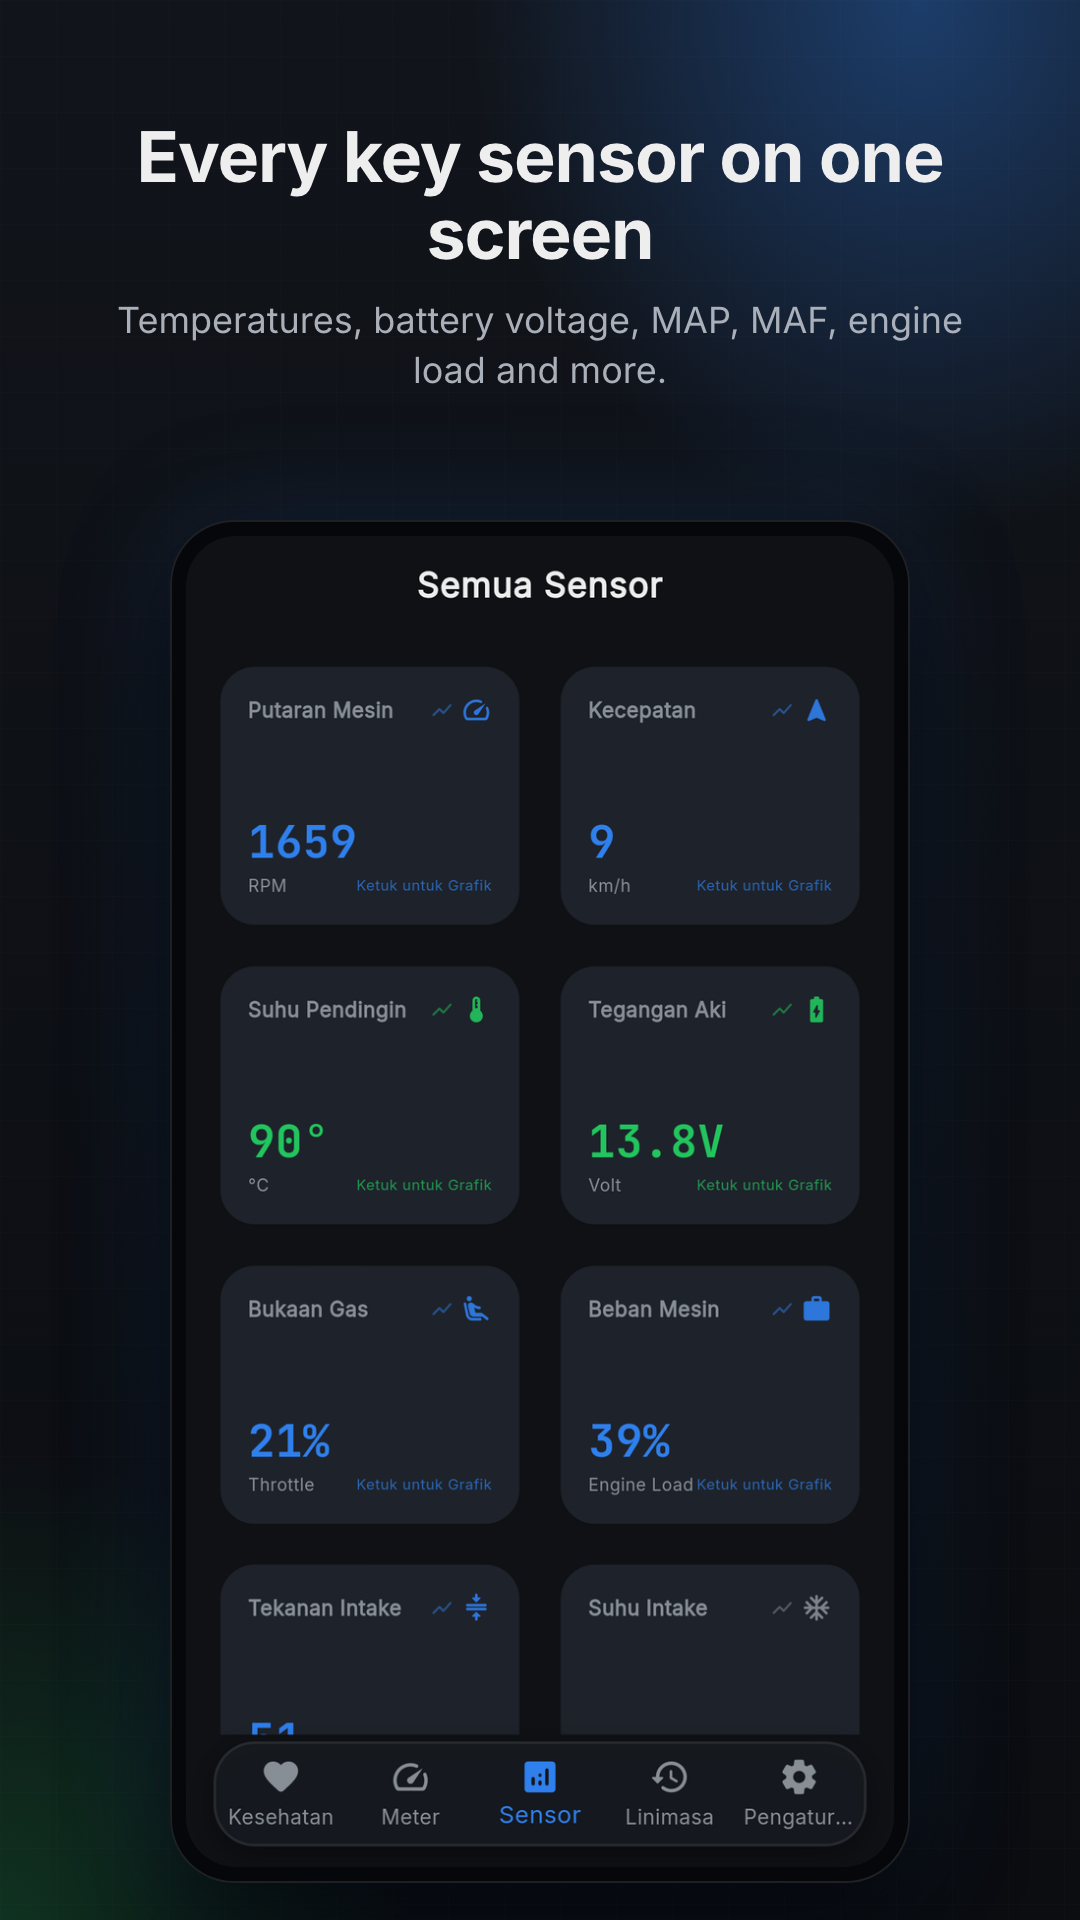
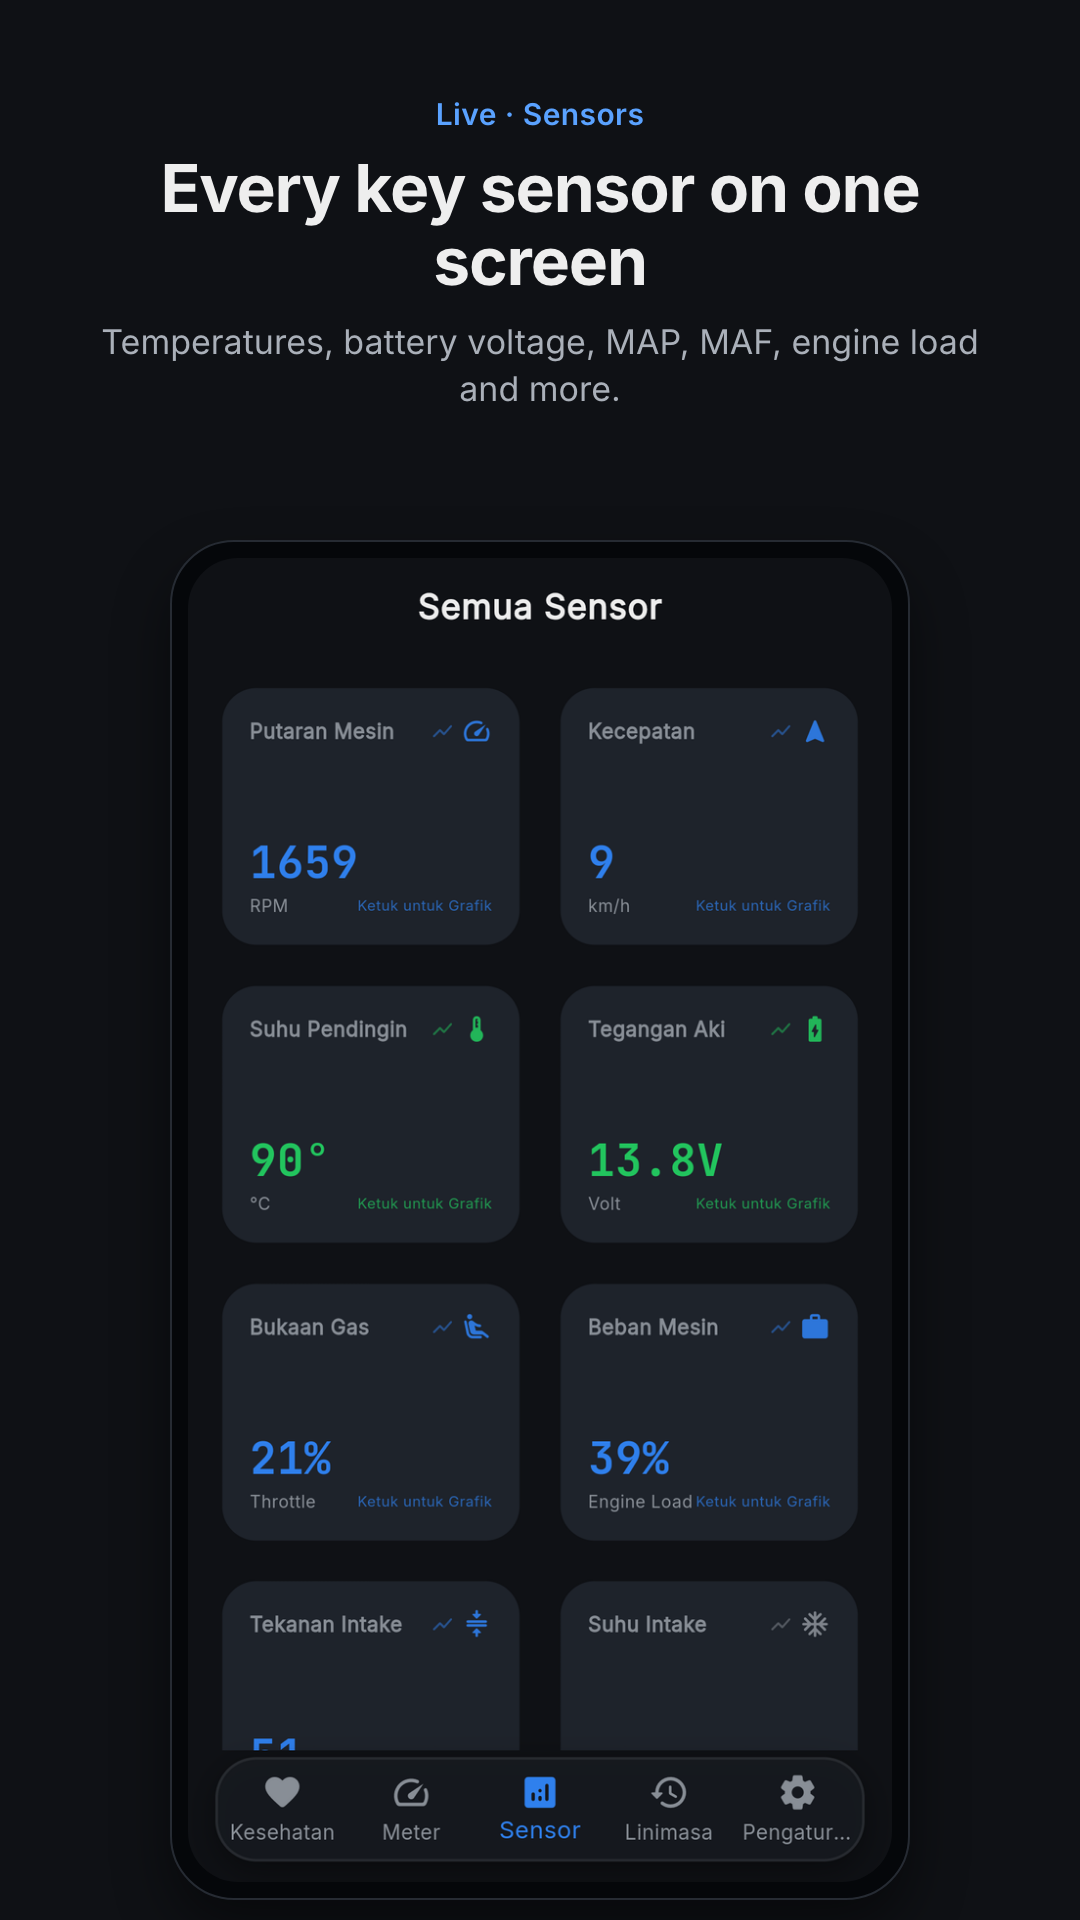
docs: calm style for store graphics and landing page
Follows the calm direction the user chose for the app: flat dark background, no glow or gradients, one blue accent. Store screenshots get a blue screen label above the caption, captions and feature chips use the glossary terms, the feature graphic tagline is solid blue, and the landing page swaps the coloured emoji and tinted cards for line icons and flat surfaces.

diff --git a/docs/assets/site.css b/docs/assets/site.css
@@ -1,10 +1,12 @@
-/* AutoCare site: GitHub Pages landing + privacy policy. Colours mirror lib/core/theme/app_theme.dart. */
+/* AutoCare site: GitHub Pages landing + privacy policy. Colours mirror lib/core/theme/app_theme.dart;
+   same calm direction as the app: flat surfaces, no glow or gradients, one blue accent. */
 :root {
   --bg: #0f1115;
   --surface: #171a20;
   --card: #1e232b;
   --line: rgba(255, 255, 255, 0.08);
   --primary: #2f80ed;
+  --accent: #5aa2ff;
   --success: #22c55e;
   --warning: #f59e0b;
   --danger: #ef4444;
@@ -60,9 +62,7 @@ img { max-width: 100%; display: block; }
   position: relative;
   overflow: hidden;
   padding: 72px 0 40px;
-  background:
-    radial-gradient(900px 480px at 85% 10%, rgba(47, 128, 237, 0.22), transparent 60%),
-    radial-gradient(700px 420px at 10% 90%, rgba(34, 197, 94, 0.12), transparent 60%);
+  border-bottom: 1px solid var(--line);
 }
 .hero .wrap { display: grid; grid-template-columns: 1.1fr 0.9fr; gap: 48px; align-items: center; }
 .eyebrow {
@@ -72,7 +72,7 @@ img { max-width: 100%; display: block; }
   font-size: 13px; font-weight: 600; letter-spacing: 0.02em;
 }
 .hero h1 { font-size: clamp(38px, 5.4vw, 60px); line-height: 1.08; margin: 18px 0 16px; letter-spacing: -0.02em; }
-.hero h1 .accent { background: linear-gradient(90deg, #5aa2ff, #22c55e); -webkit-background-clip: text; background-clip: text; color: transparent; }
+.hero h1 .accent { color: var(--accent); }
 .hero p.lead { color: #c4c8ce; font-size: 19px; margin: 0 0 28px; max-width: 34em; }
 .cta { display: flex; flex-wrap: wrap; gap: 12px; }
 .btn {
@@ -86,8 +86,8 @@ img { max-width: 100%; display: block; }
 .btn.soon { cursor: default; opacity: 0.85; }
 .btn small { display: block; font-size: 11px; font-weight: 500; opacity: 0.8; line-height: 1.1; }
 .btn .label { line-height: 1.15; }
-.hero-shot { justify-self: center; width: min(360px, 100%); filter: drop-shadow(0 30px 60px rgba(0, 0, 0, 0.55)); }
-.hero-shot img { border-radius: 28px; }
+.hero-shot { justify-self: center; width: min(360px, 100%); }
+.hero-shot img { border-radius: 28px; border: 1px solid var(--line); }
 
 /* Sections */
 section { padding: 64px 0; }
@@ -96,18 +96,15 @@ section .sub { color: var(--muted); margin: 0 0 36px; max-width: 40em; }
 
 .grid { display: grid; grid-template-columns: repeat(3, 1fr); gap: 18px; }
 .card {
-  background: linear-gradient(180deg, rgba(255, 255, 255, 0.03), transparent), var(--card);
+  background: var(--card);
   border: 1px solid var(--line); border-radius: var(--radius);
   padding: 22px 22px 20px;
 }
 .card .icon {
   width: 42px; height: 42px; border-radius: 12px;
-  display: grid; place-items: center; font-size: 22px; margin-bottom: 14px;
-  background: rgba(47, 128, 237, 0.16);
+  display: grid; place-items: center; margin-bottom: 14px;
+  background: rgba(47, 128, 237, 0.14); color: var(--accent);
 }
-.card.green .icon { background: rgba(34, 197, 94, 0.16); }
-.card.amber .icon { background: rgba(245, 158, 11, 0.16); }
-.card.red .icon { background: rgba(239, 68, 68, 0.16); }
 .card h3 { margin: 0 0 6px; font-size: 18px; }
 .card p { margin: 0; color: #b3b8bf; font-size: 15.5px; }
 
@@ -130,8 +127,8 @@ section .sub { color: var(--muted); margin: 0 0 36px; max-width: 40em; }
 .step p { margin: 0; color: #b3b8bf; font-size: 15.5px; }
 
 .note {
-  border: 1px solid rgba(245, 158, 11, 0.35); background: rgba(245, 158, 11, 0.08);
-  border-radius: 14px; padding: 16px 18px; color: #f3d9a6; font-size: 15.5px;
+  border: 1px solid var(--line); border-left: 3px solid var(--warning); background: var(--surface);
+  border-radius: 12px; padding: 16px 18px; color: #c9ccd1; font-size: 15.5px;
 }
 
 .privacy-band {
@@ -139,7 +136,7 @@ section .sub { color: var(--muted); margin: 0 0 36px; max-width: 40em; }
 }
 .privacy-band .wrap { display: flex; flex-wrap: wrap; align-items: center; justify-content: space-between; gap: 18px; }
 .pill-row { display: flex; flex-wrap: wrap; gap: 10px; }
-.pill { padding: 8px 14px; border-radius: 999px; background: rgba(34, 197, 94, 0.12); color: #8ee6ad; font-weight: 600; font-size: 14.5px; }
+.pill { padding: 8px 14px; border-radius: 999px; background: var(--card); border: 1px solid var(--line); color: var(--text); font-weight: 600; font-size: 14.5px; }
 
 /* Long-form text (privacy policy) */
 .doc { max-width: 780px; margin: 0 auto; padding: 56px 0 72px; }
@@ -152,10 +149,10 @@ section .sub { color: var(--muted); margin: 0 0 36px; max-width: 40em; }
 .doc li { margin: 6px 0; }
 .doc code { font-family: var(--mono); font-size: 0.86em; background: var(--card); padding: 2px 6px; border-radius: 6px; }
 .summary {
-  background: rgba(34, 197, 94, 0.08); border: 1px solid rgba(34, 197, 94, 0.3);
-  border-radius: 14px; padding: 18px 20px; margin: 0 0 8px;
+  background: var(--surface); border: 1px solid var(--line); border-left: 3px solid var(--accent);
+  border-radius: 12px; padding: 18px 20px; margin: 0 0 8px;
 }
-.summary p { margin: 0; color: #c9f0d6; }
+.summary p { margin: 0; color: #d2d5da; }
 .lang-switch { display: flex; gap: 10px; margin: 0 0 32px; }
 .lang-switch a { padding: 6px 14px; border-radius: 999px; border: 1px solid var(--line); color: var(--text); font-size: 14px; }
 .lang-switch a:hover { text-decoration: none; border-color: rgba(255, 255, 255, 0.25); }

diff --git a/docs/index.html b/docs/index.html
@@ -29,7 +29,7 @@
   <section class="hero">
     <div class="wrap">
       <div>
-        <span class="eyebrow">● Scanner OBD-II untuk Android</span>
+        <span class="eyebrow">Scanner OBD-II untuk Android</span>
         <h1>Teman senyap untuk <span class="accent">mobilmu</span>.</h1>
         <p class="lead">AutoCare mengubah adapter OBD Bluetooth (ELM327) menjadi monitor kesehatan mobil. Lihat skor kesehatan, pindai kode kerusakan, pantau data live, dan simpan riwayat perjalanan, isi BBM, serta servis, semuanya dalam Bahasa Indonesia.</p>
         <div class="cta">
@@ -46,12 +46,12 @@
       <h2>Semua yang perlu diketahui tentang mesin</h2>
       <p class="sub">Colokkan adapter ke port OBD mobil, hubungkan lewat Bluetooth, dan AutoCare membaca data langsung dari mobil.</p>
       <div class="grid">
-        <div class="card green"><div class="icon">❤</div><h3>Skor kesehatan mobil</h3><p>Skor 0–100 dari suhu mesin, aki dan alternator, putaran idle, kode kerusakan, dan jadwal ganti oli, dengan status normal, waspada, atau kritis dan langkah berikutnya.</p></div>
-        <div class="card red"><div class="icon">🛠</div><h3>Pindai kode kerusakan</h3><p>Baca kode kerusakan aktif, tertunda, dan permanen, status lampu Check Engine dan kesiapan uji emisi, lalu hapus kode bila perlu.</p></div>
-        <div class="card"><div class="icon">📖</div><h3>Kamus kode</h3><p>Arti kode kerusakan dalam Bahasa Indonesia: gejala, kemungkinan penyebab, dan rekomendasi tindakan.</p></div>
-        <div class="card"><div class="icon">⏱</div><h3>Data live</h3><p>Meter dengan gauge yang bisa diatur dan sensor real-time (putaran mesin, suhu mesin, MAP, MAF, beban mesin, dan lainnya), perkiraan km/L, serta petunjuk Hemat saat berkendara efisien.</p></div>
-        <div class="card amber"><div class="icon">🧾</div><h3>Riwayat perjalanan, isi BBM, dan servis</h3><p>Perjalanan tercatat otomatis, Trip A dan B, catatan isi BBM dengan hitungan km/L, dan servis seperti ganti oli.</p></div>
-        <div class="card green"><div class="icon">🧪</div><h3>Mode simulator</h3><p>Coba semua fitur tanpa adapter dengan data contoh, termasuk simulasi mesin terlalu panas, aki lemah, dan lampu Check Engine.</p></div>
+        <div class="card"><div class="icon"><svg viewBox="0 0 24 24" width="22" height="22" fill="none" stroke="currentColor" stroke-width="2" stroke-linecap="round" stroke-linejoin="round" aria-hidden="true"><polyline points="3 12 7 12 10 6 14 18 17 12 21 12"/></svg></div><h3>Skor kesehatan mobil</h3><p>Skor 0–100 dari suhu mesin, aki dan alternator, putaran idle, kode kerusakan, dan jadwal ganti oli, dengan status normal, waspada, atau kritis dan langkah berikutnya.</p></div>
+        <div class="card"><div class="icon"><svg viewBox="0 0 24 24" width="22" height="22" fill="none" stroke="currentColor" stroke-width="2" stroke-linecap="round" stroke-linejoin="round" aria-hidden="true"><circle cx="11" cy="11" r="7"/><line x1="16.5" y1="16.5" x2="21" y2="21"/></svg></div><h3>Pindai kode kerusakan</h3><p>Baca kode kerusakan aktif, tertunda, dan permanen, status lampu Check Engine dan kesiapan uji emisi, lalu hapus kode bila perlu.</p></div>
+        <div class="card"><div class="icon"><svg viewBox="0 0 24 24" width="22" height="22" fill="none" stroke="currentColor" stroke-width="2" stroke-linecap="round" stroke-linejoin="round" aria-hidden="true"><path d="M5 4h11a3 3 0 0 1 3 3v13H8a3 3 0 0 1-3-3z"/><line x1="5" y1="17" x2="19" y2="17"/></svg></div><h3>Kamus kode</h3><p>Arti kode kerusakan dalam Bahasa Indonesia: gejala, kemungkinan penyebab, dan rekomendasi tindakan.</p></div>
+        <div class="card"><div class="icon"><svg viewBox="0 0 24 24" width="22" height="22" fill="none" stroke="currentColor" stroke-width="2" stroke-linecap="round" stroke-linejoin="round" aria-hidden="true"><path d="M4 17a8 8 0 1 1 16 0"/><line x1="12" y1="17" x2="16" y2="11"/></svg></div><h3>Data live</h3><p>Meter dengan gauge yang bisa diatur dan sensor real-time (putaran mesin, suhu mesin, MAP, MAF, beban mesin, dan lainnya), perkiraan km/L, serta petunjuk Hemat saat berkendara efisien.</p></div>
+        <div class="card"><div class="icon"><svg viewBox="0 0 24 24" width="22" height="22" fill="none" stroke="currentColor" stroke-width="2" stroke-linecap="round" stroke-linejoin="round" aria-hidden="true"><circle cx="12" cy="12" r="9"/><polyline points="12 7 12 12 15 14"/></svg></div><h3>Riwayat perjalanan, isi BBM, dan servis</h3><p>Perjalanan tercatat otomatis, Trip A dan B, catatan isi BBM dengan hitungan km/L, dan servis seperti ganti oli.</p></div>
+        <div class="card"><div class="icon"><svg viewBox="0 0 24 24" width="22" height="22" fill="none" stroke="currentColor" stroke-width="2" stroke-linecap="round" stroke-linejoin="round" aria-hidden="true"><path d="M9 3h6"/><path d="M10 3v6l-5 9a2 2 0 0 0 1.7 3h10.6a2 2 0 0 0 1.7-3l-5-9V3"/></svg></div><h3>Mode simulator</h3><p>Coba semua fitur tanpa adapter dengan data contoh, termasuk simulasi mesin terlalu panas, aki lemah, dan lampu Check Engine.</p></div>
       </div>
     </div>
   </section>

diff --git a/tool/store_assets/render.py b/tool/store_assets/render.py
@@ -45,20 +45,23 @@ NAV_BAR_PX = 126
 SHOTS = [
     {
         "name": "01-kesehatan",
+        "label": {"id": "Beranda", "en": "Home"},
         "id": ("Skor kesehatan mobil, langsung dari mesin",
-               "Suhu, aki, kode error, dan jadwal oli dirangkum jadi satu skor."),
+               "Suhu mesin, aki, kode kerusakan, dan jadwal oli dalam satu skor."),
         "en": ("Your car's health at a glance",
                "Coolant, battery, trouble codes and oil schedule in one live score."),
     },
     {
         "name": "02-meter",
-        "id": ("Meter kokpit yang bisa kamu atur",
+        "label": {"id": "Live · Meter", "en": "Live · Gauges"},
+        "id": ("Meter yang bisa Anda atur",
                "Putaran mesin, kecepatan, Trip A dan B, plus petunjuk Hemat."),
         "en": ("A cockpit you can customise",
                "Engine speed, vehicle speed, Trip A and B, plus an economy hint."),
     },
     {
         "name": "03-sensor",
+        "label": {"id": "Live · Sensor", "en": "Live · Sensors"},
         "id": ("Semua sensor penting dalam satu layar",
                "Suhu, tegangan aki, MAP, MAF, beban mesin, dan lainnya."),
         "en": ("Every key sensor on one screen",
@@ -66,6 +69,7 @@ SHOTS = [
     },
     {
         "name": "04-grafik",
+        "label": {"id": "Live · Grafik sensor", "en": "Live · Sensor chart"},
         "id": ("Grafik riwayat tiap sensor",
                "Tren 1 menit sampai 1 jam, lengkap dengan puncak dan rata-rata."),
         "en": ("A history chart for every sensor",
@@ -73,21 +77,24 @@ SHOTS = [
     },
     {
         "name": "05-diagnostik",
-        "id": ("Baca dan hapus kode Check Engine",
-               "DTC aktif, pending, dan permanen, plus status kesiapan emisi."),
-        "en": ("Read and clear Check Engine codes",
+        "label": {"id": "Diagnostik · Pindai", "en": "Diagnostics · Scan"},
+        "id": ("Pindai dan hapus kode kerusakan",
+               "Kode aktif, tertunda, dan permanen, plus kesiapan uji emisi."),
+        "en": ("Scan and clear trouble codes",
                "Active, pending and permanent DTCs, plus emission readiness."),
     },
     {
         "name": "06-kamus-dtc",
-        "id": ("Arti kode error, dalam Bahasa Indonesia",
+        "label": {"id": "Diagnostik · Kamus kode", "en": "Diagnostics · Code dictionary"},
+        "id": ("Arti kode kerusakan, dalam Bahasa Indonesia",
                "Gejala, kemungkinan penyebab, dan rekomendasi tindakan."),
         "en": ("Trouble codes, explained",
                "Symptoms, likely causes and what to do next."),
     },
     {
         "name": "07-linimasa",
-        "id": ("Riwayat perjalanan, BBM, dan servis",
+        "label": {"id": "Riwayat", "en": "History"},
+        "id": ("Riwayat perjalanan, isi BBM, dan servis",
                "Hitung km/L dan ingat jadwal ganti oli berikutnya."),
         "en": ("Trips, fuel and service history",
                "Track your km/L and never miss the next oil change."),
@@ -96,18 +103,19 @@ SHOTS = [
         # The real-adapter sheet would list the phone's bonded Bluetooth devices
         # (personal names), so the store set shows the simulator sheet instead.
         "name": "08-simulator",
+        "label": {"id": "Mode simulator", "en": "Simulator mode"},
         "id": ("Coba semua fitur tanpa mobil",
-               "Mode Simulator memakai data demo: overheat, aki lemah, Check Engine."),
+               "Data contoh, termasuk mesin terlalu panas, aki lemah, dan lampu Check Engine."),
         "en": ("Try every feature without a car",
-               "Simulator Mode uses demo data: overheating, weak battery, Check Engine."),
+               "Sample data, including overheating, a weak battery and a Check Engine light."),
     },
 ]
 
 FEATURE = {
-    "id": ("Scanner OBD2 &amp; monitor kesehatan mobil",
-           ["Skor kesehatan", "Kode Check Engine", "Live data", "Trip &amp; servis"]),
-    "en": ("OBD2 scanner &amp; car health monitor",
-           ["Health score", "Check Engine codes", "Live data", "Trips &amp; service"]),
+    "id": ("Scanner OBD2 &amp; monitor kesehatan&nbsp;mobil",
+           ["Skor kesehatan", "Kode kerusakan", "Data live", "Riwayat &amp; servis"]),
+    "en": ("OBD2 scanner &amp; car health&nbsp;monitor",
+           ["Health score", "Trouble codes", "Live data", "Trips &amp; service"]),
 }
 
 BASE_CSS = """
@@ -117,19 +125,12 @@ BASE_CSS = """
 * { box-sizing: border-box; }
 html, body { margin: 0; overflow: hidden; background: #0f1115; }
 body { font-family: InterX, sans-serif; color: #eeeeee; -webkit-font-smoothing: antialiased; }
-.bg { position: absolute; inset: 0;
-  background:
-    radial-gradient(60% 40% at 85% 0%, rgba(47,128,237,.38), transparent 70%),
-    radial-gradient(55% 35% at 0% 100%, rgba(34,197,94,.20), transparent 70%),
-    linear-gradient(180deg, #11141a 0%, #0b0d11 100%); }
-.grid { position: absolute; inset: 0; opacity: .35;
-  background-image:
-    linear-gradient(rgba(255,255,255,.035) 1px, transparent 1px),
-    linear-gradient(90deg, rgba(255,255,255,.035) 1px, transparent 1px);
-  background-size: 56px 56px; }
+/* Calm direction chosen for the app: flat dark background, no glow, no
+   gradients, one blue accent (colours from lib/core/theme). */
+.bg { position: absolute; inset: 0; background: #0f1115; }
+.eyebrow { color: #5aa2ff; font-weight: 600; letter-spacing: .4px; }
 .phone { position: absolute; background: #05070a; border-radius: 64px; padding: 16px;
-  box-shadow: 0 50px 100px rgba(0,0,0,.65), 0 0 0 2px rgba(255,255,255,.10) inset,
-              0 0 120px rgba(47,128,237,.18); }
+  border: 2px solid #262b33; box-shadow: 0 28px 56px rgba(0,0,0,.45); }
 .phone img { display: block; width: 100%; border-radius: 50px; }
 """
 
@@ -178,15 +179,17 @@ def crop_raw(raw: Path, out: Path) -> Path:
     return out
 
 
-def framed(fonts, shot_png: Path, title: str, sub: str, page: Path, out: Path) -> None:
+def framed(fonts, shot_png: Path, label: str, title: str, sub: str, page: Path,
+           out: Path) -> None:
     page.write_text(f"""<!doctype html><html><head><meta charset="utf-8"><style>{css(fonts)}
 html, body {{ width: 1080px; height: 1920px; }}
-.cap {{ position: absolute; top: 118px; left: 84px; right: 84px; text-align: center; }}
-.cap h1 {{ margin: 0 0 24px; font-size: 70px; line-height: 1.1; font-weight: 700; letter-spacing: -1.2px; }}
-.cap p {{ margin: 0; font-size: 36px; line-height: 1.38; font-weight: 400; color: #aab0b9; }}
-.phone {{ left: 170px; top: 520px; width: 740px; }}
-</style></head><body><div class="bg"></div><div class="grid"></div>
-<div class="cap"><h1>{html.escape(title)}</h1><p>{html.escape(sub)}</p></div>
+.cap {{ position: absolute; top: 96px; left: 84px; right: 84px; text-align: center; }}
+.cap .eyebrow {{ font-size: 30px; margin: 0 0 20px; }}
+.cap h1 {{ margin: 0 0 22px; font-size: 66px; line-height: 1.1; font-weight: 700; letter-spacing: -1.2px; }}
+.cap p {{ margin: 0; font-size: 34px; line-height: 1.38; font-weight: 400; color: #aab0b9; }}
+.phone {{ left: 170px; top: 540px; width: 740px; }}
+</style></head><body><div class="bg"></div>
+<div class="cap"><div class="eyebrow">{html.escape(label)}</div><h1>{html.escape(title)}</h1><p>{html.escape(sub)}</p></div>
 <div class="phone"><img src="{shot_png.resolve().as_uri()}"></div>
 </body></html>""", encoding="utf-8")
     chrome_render(page, out, 1080, 1920)
@@ -198,18 +201,17 @@ def feature_graphic(fonts, icon: Path, shot_png: Path, tagline: str, chips: list
     chip_html = "".join(f'<span class="chip">{c}</span>' for c in chips)
     page.write_text(f"""<!doctype html><html><head><meta charset="utf-8"><style>{css(fonts)}
 html, body {{ width: {width}px; height: {height}px; }}
-.left {{ position: absolute; left: {round(64*s)}px; top: 50%; transform: translateY(-50%); width: {round(600*s)}px; }}
+.left {{ position: absolute; left: {round(64*s)}px; top: 50%; transform: translateY(-50%); width: {round(540*s)}px; }}
 .brand {{ display: flex; align-items: center; gap: {round(20*s)}px; }}
-.brand img {{ width: {round(92*s)}px; height: {round(92*s)}px; border-radius: {round(22*s)}px; box-shadow: 0 10px 30px rgba(0,0,0,.5); }}
+.brand img {{ width: {round(92*s)}px; height: {round(92*s)}px; border-radius: {round(22*s)}px; }}
 .brand h1 {{ margin: 0; font-size: {round(66*s)}px; font-weight: 700; letter-spacing: -1.5px; }}
-.tag {{ margin: {round(22*s)}px 0 {round(26*s)}px; font-size: {round(29*s)}px; line-height: 1.25; font-weight: 600;
-  background: linear-gradient(90deg, #6aa6ff, #22c55e); -webkit-background-clip: text; color: transparent; }}
+.tag {{ margin: {round(22*s)}px 0 {round(26*s)}px; font-size: {round(29*s)}px; line-height: 1.25; font-weight: 600; color: #5aa2ff; }}
 .chips {{ display: flex; flex-wrap: wrap; gap: {round(10*s)}px; }}
 .chip {{ font-size: {round(19*s)}px; font-weight: 600; color: #cfd3d9; padding: {round(8*s)}px {round(14*s)}px;
-  border-radius: 999px; background: rgba(255,255,255,.06); border: 1px solid rgba(255,255,255,.10); }}
+  border-radius: 999px; background: #171a20; border: 1px solid #262b33; }}
 .phone {{ right: {round(70*s)}px; top: {round(52*s)}px; width: {round(300*s)}px; padding: {round(9*s)}px; border-radius: {round(38*s)}px; }}
 .phone img {{ border-radius: {round(30*s)}px; }}
-</style></head><body><div class="bg"></div><div class="grid"></div>
+</style></head><body><div class="bg"></div>
 <div class="left"><div class="brand"><img src="{icon.resolve().as_uri()}"><h1>AutoCare</h1></div>
 <div class="tag">{tagline}</div><div class="chips">{chip_html}</div></div>
 <div class="phone"><img src="{shot_png.resolve().as_uri()}"></div>
@@ -253,7 +255,8 @@ def main() -> None:
                 continue
             n += 1
             title, sub = shot[key]
-            framed(fonts, cropped[shot["name"]], title, sub, tmp / f"{key}-{n}.html",
+            framed(fonts, cropped[shot["name"]], shot["label"][key], title, sub,
+                       tmp / f"{key}-{n}.html",
                    out_dir / f"{n}_{shot['name']}.png")
         tagline, chips = FEATURE[key]
         hero = cropped.get("01-kesehatan") or next(iter(cropped.values()))
